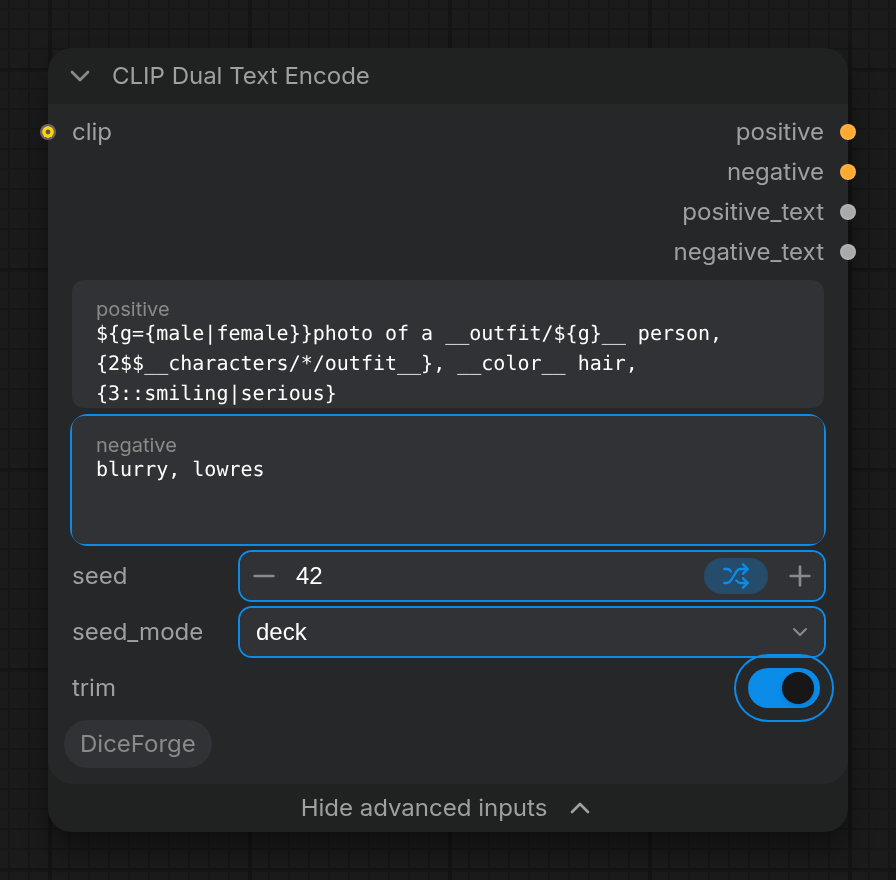
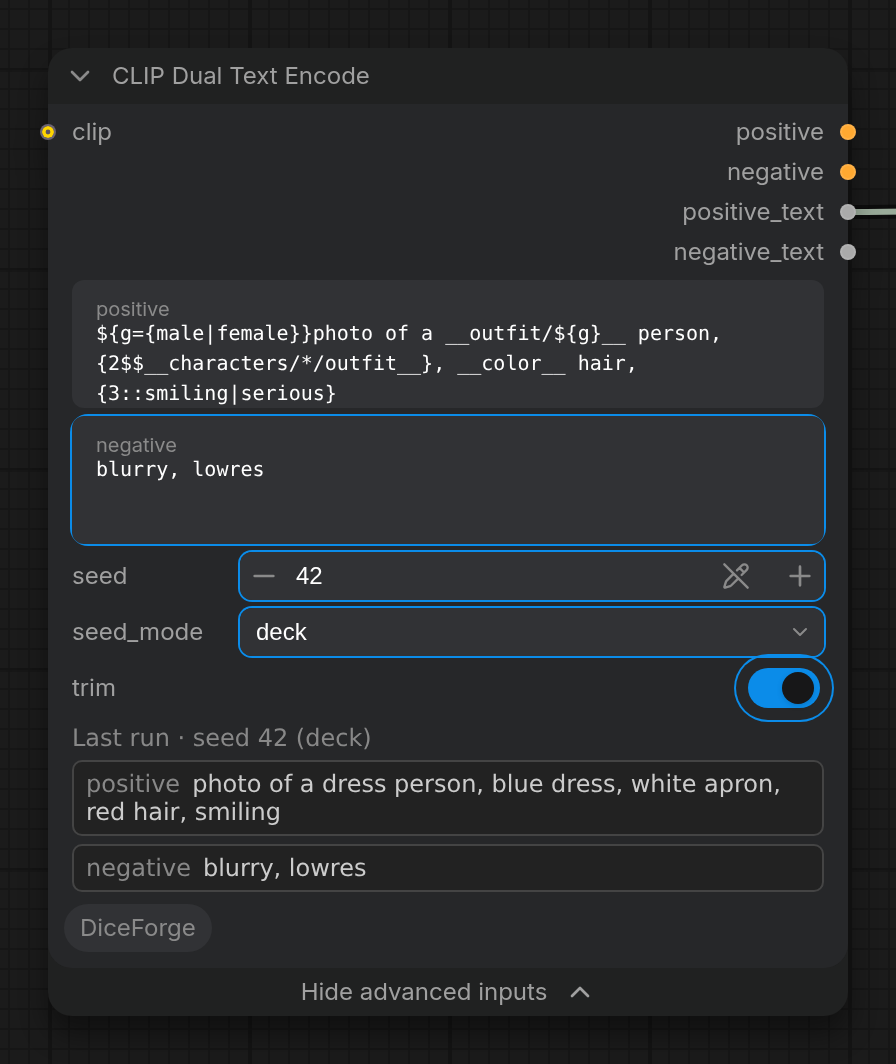
CLIP Dual Text Encode: preview of the prompts as encoded
After each run the node shows the positive and negative prompts with
choices, wildcards and variables filled in, the seed and mode (and the
combination number); click to copy. Kept in the node's properties, so it
survives a reload and travels with the workflow; dimmed and marked when
a prompt was changed since. has_intermediate_output: a node taken from
ComfyUI's cache sends its prompts again (it did not before, so a repeated
run left the preview empty). Unit and e2e tests (both node designs,
cached runs, reload); README and screenshot.

Claude-Session: https://claude.ai/code/session_01MJGDoLbJHNqDgSZcxrjbuh

diff --git a/DiceForge/web/prompt_preview.js b/DiceForge/web/prompt_preview.js
@@ -1,0 +1,81 @@
+import { app } from "../../scripts/app.js";
+import { addStyleOnce, element } from "./dom.js";
+
+// CLIP Dual Text Encode shows, under its inputs, the positive and negative prompts as the last run encoded them: choices, wildcards and variables
+// filled in, with the seed and mode they came from. Click a prompt to copy it. They are kept in the node's properties, so they are still there after
+// a reload and travel with the workflow (also the one saved in an image). When a prompt was changed since, the preview is dimmed until the next run.
+const NODE_TYPE = "CLIPTextEncodePositiveNegative";
+const STYLE = `
+.dfpp{font:12px system-ui,sans-serif;color:#ccc;display:flex;flex-direction:column;gap:4px;box-sizing:border-box;padding:2px 0;max-height:320px;overflow:auto}
+.dfpp .head{color:#888;display:flex;gap:6px;justify-content:space-between}.dfpp .head .changed{color:#d9b36a}
+.dfpp .box{background:#222;border:1px solid #444;border-radius:5px;padding:4px 6px;white-space:pre-wrap;word-break:break-word;cursor:copy;max-height:130px;overflow:auto}
+.dfpp .box b{color:#888;font-weight:400;margin-right:6px}.dfpp .box.copied{border-color:#6a9a6a}.dfpp .empty{color:#777;font-style:italic}
+.dfpp.stale .box{opacity:.55}
+`;
+
+app.registerExtension({
+  name: "DiceForge.PromptPreview",
+  nodeCreated(node) {
+    if (node.comfyClass !== NODE_TYPE) return;
+    addStyleOnce("dfpp-style", STYLE);
+    const panel = element("div", { class: "dfpp" });
+    node.addDOMWidget("prompt_preview", "diceforge_prompt_preview", panel, { serialize: false, getMinHeight: () => Math.min(panel.scrollHeight, 320) + 4 });
+    const text = (name) => String(node.widgets?.find((widget) => widget.name === name)?.value ?? "");
+    const box = (label, value) => {
+      const item = element("div", { class: "box", title: "Click to copy" }, element("b", {}, label), value ? value : element("span", { class: "empty" }, "(empty)"));
+      item.addEventListener("click", () => {
+        navigator.clipboard?.writeText(value);
+        item.classList.add("copied");
+        setTimeout(() => item.classList.remove("copied"), 600);
+      });
+      return item;
+    };
+    let shownFrom; // The prompts the panel shows (undefined: not drawn yet).
+    function render() {
+      const last = node.properties?.dice_forge_prompts;
+      shownFrom = last;
+      if (!last) panel.replaceChildren(element("div", { class: "empty" }, "Run the workflow to see the prompts as encoded here."));
+      else {
+        const mode = [last.seed_mode, last.note].filter(Boolean).join(", ");
+        panel.replaceChildren(element("div", { class: "head" }, element("span", {}, `Last run · seed ${last.seed}${mode ? ` (${mode})` : ""}`), element("span", { class: "changed" })),
+          box("positive", last.positive ?? ""), box("negative", last.negative ?? ""));
+      }
+      markStale();
+      node.setSize?.([node.size[0], Math.max(node.size[1], node.computeSize()[1])]); // Room for the preview in the classic canvas.
+      node.setDirtyCanvas?.(true, true);
+    }
+    // Dimmed while the prompts in the fields are not the ones the preview came from.
+    function markStale() {
+      const last = node.properties?.dice_forge_prompts;
+      const stale = !!last && last.source_positive != null && (last.source_positive !== text("positive") || last.source_negative !== text("negative"));
+      panel.classList.toggle("stale", stale);
+      const note = panel.querySelector(".changed");
+      if (note) note.textContent = stale ? "prompt changed since" : "";
+    }
+    const onExecuted = node.onExecuted;
+    node.onExecuted = function (output) {
+      const result = output?.dice_forge_prompts?.[0];
+      if (result) {
+        node.properties ??= {};
+        node.properties.dice_forge_prompts = { ...result, source_positive: text("positive"), source_negative: text("negative") };
+        render();
+      }
+      return onExecuted?.apply(this, arguments);
+    };
+    const onConfigure = node.onConfigure;
+    node.onConfigure = function () {
+      const result = onConfigure?.apply(this, arguments);
+      requestAnimationFrame(render); // A loaded workflow: the prompts of its last run.
+      return result;
+    };
+    // Drawn again when the saved prompts arrive (a loaded workflow gives the node its properties after this extension ran, in the classic canvas),
+    // else only the "changed since" mark is checked.
+    const timer = setInterval(() => { if (node.properties?.dice_forge_prompts !== shownFrom) render(); else markStale(); }, 400);
+    const onRemoved = node.onRemoved;
+    node.onRemoved = function () {
+      clearInterval(timer);
+      return onRemoved?.apply(this, arguments);
+    };
+    render();
+  },
+});

diff --git a/e2e/ui.spec.js b/e2e/ui.spec.js
@@ -471,6 +471,20 @@ for (const vue of [true, false]) {
       const history = Object.values(await (await request.get("/history?max_items=1")).json())[0];
       const text = history.outputs[String(preview)].text[0];
       expect(text).toMatch(/^a (red|blue|green|white) car, [a-z ]+, [a-z ]+$/);
+      // The node shows the prompts as encoded, with the seed they came from.
+      const shown = page.locator(".dfpp").first();
+      await expect(shown.locator(".box").first()).toHaveText(`positive${text}`);
+      await expect(shown.locator(".box").nth(1)).toContainText("(empty)");
+      await expect(shown.locator(".head")).toContainText("seed 3 (random)");
+      await expect(shown).not.toHaveClass(/stale/);
+      await setWidget(page, encode, "positive", "a __color__ bike"); // Changed since the run: dimmed until the next one.
+      await expect(shown).toHaveClass(/stale/);
+      await expect(shown.locator(".changed")).toHaveText("prompt changed since");
+      // Kept with the workflow: a reload of it shows them again.
+      const workflow = await page.evaluate(() => window.app.graph.serialize());
+      expect(workflow.nodes.find((node) => String(node.id) === String(encode)).properties.dice_forge_prompts.positive).toBe(text);
+      await page.evaluate(async (data) => { window.app.graph.clear(); await window.app.loadGraphData(data); }, workflow);
+      await expect(page.locator(".dfpp").first().locator(".box").first()).toHaveText(`positive${text}`);
     });
 
     if (vue) {

diff --git a/e2e/screenshots.spec.js b/e2e/screenshots.spec.js
@@ -40,10 +40,14 @@ test.describe("README screenshots (Nodes 2.0)", () => {
     await shot(page, [selector], "resolution_selector.png");
   });
 
-  test("CLIP Dual Text Encode and the autocomplete", async ({ page }) => {
-    const [id] = await addNodes(page, [{ type: "CLIPTextEncodePositiveNegative", pos: [400, 220], widgets: {
+  test("CLIP Dual Text Encode and the autocomplete", async ({ page, request }) => {
+    const [id, text] = await addNodes(page, [{ type: "CLIPTextEncodePositiveNegative", pos: [400, 220], widgets: {
       positive: "${g={male|female}}photo of a __outfit/${g}__ person, {2$$__characters/*/outfit__}, __color__ hair, {3::smiling|serious}",
-      negative: "blurry, lowres", seed: 42, seed_mode: "deck" } }]);
+      negative: "blurry, lowres", seed: 42, seed_mode: "deck" } }, { type: "PreviewAny", pos: [1700, 220] }]);
+    await connect(page, id, 2, text, 0);
+    await setWidget(page, id, "control_after_generate", "fixed");
+    await queueFromPage(page, request); // A run, so the node shows the prompts as encoded.
+    await expect(page.locator(".dfpp .box").first()).toContainText("photo of a");
     await showAdvanced(page, id);
     await shot(page, [id], "clip_dual_text_encode.png");
     const field = page.locator(`[data-node-id="${id}"] textarea`).first();

diff --git a/DiceForge/clip_text_encode_pos_neg.py b/DiceForge/clip_text_encode_pos_neg.py
@@ -474,6 +474,7 @@ class CLIPTextEncodePositiveNegative(io.ComfyNode):
                     advanced=True,
                 ),
             ],
+            has_intermediate_output=True, # The prompts of the last run reach the node's preview also when the node comes from the cache.
             # Outputs for the node: positive and negative conditioning, then the prompts as encoded (with choices and wildcards filled in).
             outputs=[
                 io.Conditioning.Output(display_name="positive", tooltip="Conditioning from the positive prompt."),
@@ -525,9 +526,11 @@ class CLIPTextEncodePositiveNegative(io.ComfyNode):
         # Logging the prompts when choices or wildcards changed them, for debugging and verification purposes.
         if (positive_text, negative_text) != (positive, negative):
             logging.info(f"[DiceForge] CLIP Dual Text Encode | Seed: {seed} ({seed_mode}{note}) | Positive: {positive_text} | Negative: {negative_text}")
+        # The prompts as encoded, for the node's preview in the page (web/prompt_preview.js), with the seed and mode they came from.
+        shown = {"dice_forge_prompts": [{"positive": positive_text, "negative": negative_text, "seed": seed, "seed_mode": seed_mode, "note": note.lstrip(", ")}]}
         if clip is None:
-            return io.NodeOutput(None, None, positive_text, negative_text) # No CLIP: only the text, for other text encoders.
-        return io.NodeOutput(cls.encode(clip, positive_text), cls.encode(clip, negative_text), positive_text, negative_text)
+            return io.NodeOutput(None, None, positive_text, negative_text, ui=shown) # No CLIP: only the text, for other text encoders.
+        return io.NodeOutput(cls.encode(clip, positive_text), cls.encode(clip, negative_text), positive_text, negative_text, ui=shown)
 # Extension entry point for ComfyUI V3 node registration.
 class CLIPTextEncodePositiveNegativeExtension(ComfyExtension):
     @override

diff --git a/tests/test_prompts.py b/tests/test_prompts.py
@@ -176,3 +176,12 @@ def test_remembering_modes_never_use_the_cache():
     assert Node.fingerprint_inputs(seed_mode="random")[1] is None
     first, second = Node.fingerprint_inputs(seed_mode="shuffle")[1], Node.fingerprint_inputs(seed_mode="shuffle")[1]
     assert first != second
+
+
+def test_the_node_sends_its_prompts_to_the_page_preview(wildcards):
+    from DiceForge.clip_text_encode_pos_neg import CLIPTextEncodePositiveNegative
+    wildcards("color.txt", "red\n")
+    output = CLIPTextEncodePositiveNegative.execute("a __color__ car", "{lowres|lowres}", seed=7, seed_mode="deck")
+    assert output.ui == {"dice_forge_prompts": [{"positive": "a red car", "negative": "lowres", "seed": 7, "seed_mode": "deck", "note": ""}]}
+    combinations = CLIPTextEncodePositiveNegative.execute("{a|b}", "", seed=1, seed_mode="combinations").ui["dice_forge_prompts"][0]
+    assert combinations["positive"] == "b" and combinations["note"] == "combination 2 of 2"

diff --git a/README.md b/README.md
@@ -604,6 +604,10 @@ In `deck` and `shuffle` modes:
 - The node runs again when a wildcard file changes, even if the prompts and the seed stay the same.
 - A `*` or `?` name (`__hair/*__`) joins the lines of every file it matches, in name order, so all seed modes (deck, shuffle, combinations…) treat them as one list. Empty files among them are skipped; a name that matches nothing stops the run with an error.
 
+### Preview of the prompts as encoded
+
+After each run the node shows, under its inputs, the **positive** and **negative** prompts as they were encoded: choices, wildcards and variables filled in, with the seed and seed mode they came from (and *combination N of M* in `combinations`). Click a prompt to copy it. The preview is kept with the workflow, so it is still there after a reload and in a workflow loaded from an image; when you change a prompt it is dimmed and marked *prompt changed since* until the next run. It also updates when the node comes from ComfyUI's cache.
+
 ### Autocomplete and the Wildcard Browser
 
 <img src="docs/images/wildcard_autocomplete.png" width="467" alt="Wildcard autocomplete in the positive prompt">
